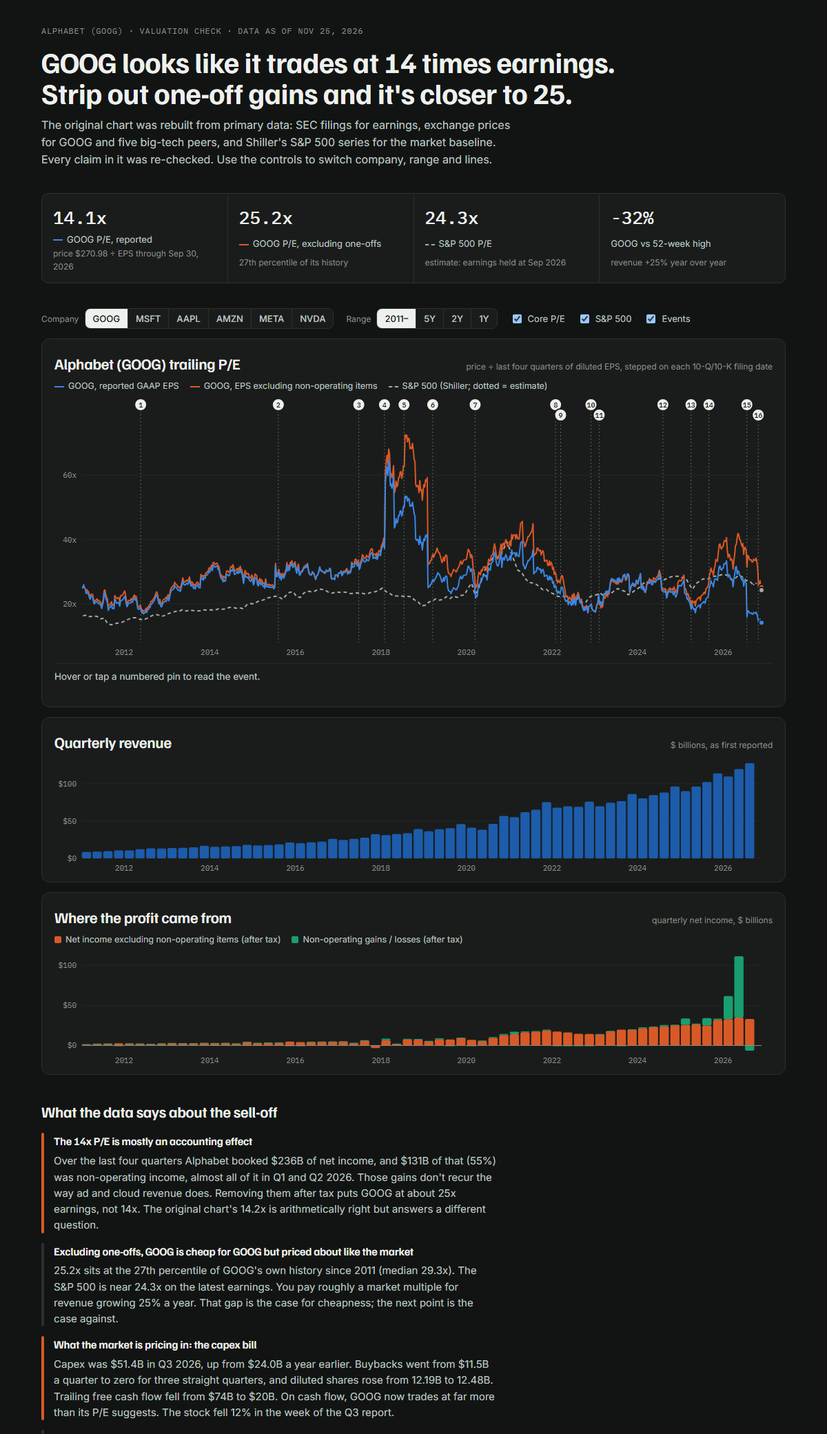
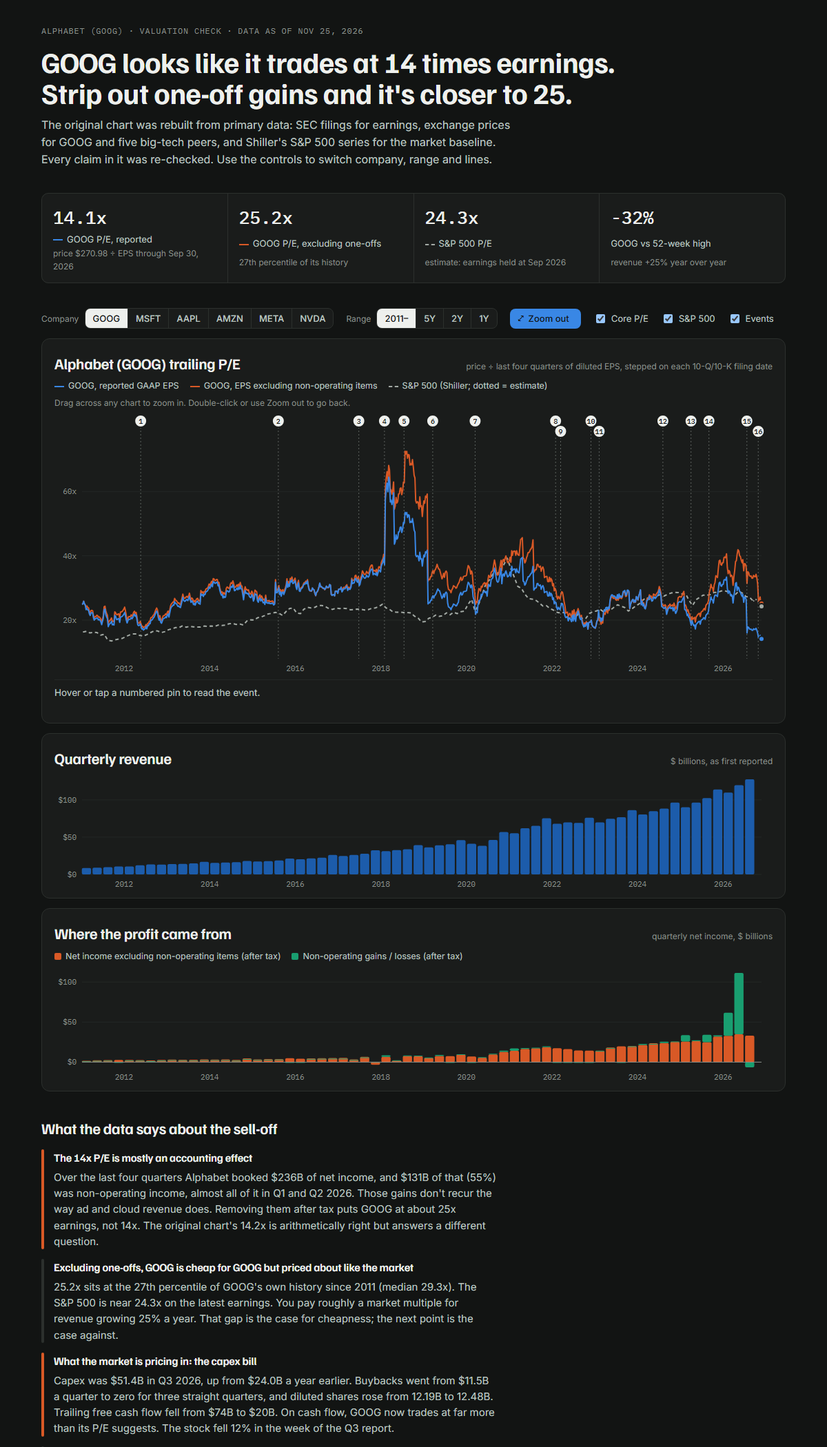
Chart hover follows the cursor anywhere on a card; add drag-to-zoom and Zoom out
The vertical line is shared across all three panels. Drag (mouse/pen) zooms
every panel to the selected span; double-click or the Zoom out button resets.

diff --git a/goog-valuation/index.html b/goog-valuation/index.html
@@ -70,7 +70,12 @@ header { display: grid; gap: 12px; }
 .panel-title .sub { font-size: 12px; color: var(--ink-3); }
 .legend { display: flex; flex-wrap: wrap; gap: 4px 16px; font-size: 12.5px; color: var(--ink-2); }
 .legend .sw { display: inline-block; width: 10px; height: 10px; border-radius: 2px; margin-right: 6px; vertical-align: -1px; }
-.chart { position: relative; width: 100%; }
+.chart { position: relative; width: 100%; user-select: none; -webkit-user-select: none; cursor: crosshair; }
+.chart .pin { cursor: pointer; }
+.zoom-out { font: 500 13px var(--font-body); color: var(--bg); background: var(--s1); border: 0; border-radius: 8px; padding: 6px 11px; cursor: pointer; display: inline-flex; gap: 6px; align-items: center; }
+.zoom-out .zl { font: 400 12px var(--font-data); opacity: 0.85; }
+.zoom-out:focus-visible { outline: 2px solid var(--ink); outline-offset: 2px; }
+.hint { font-size: 12px; color: var(--ink-3); }
 .chart svg { display: block; width: 100%; overflow: visible; }
 .chart text { font-family: var(--font-data); font-size: 11px; fill: var(--ink-3); }
 .tip { position: absolute; pointer-events: none; background: var(--surface); border: 1px solid var(--rule); border-radius: 8px;
@@ -141,6 +146,7 @@ section { display: grid; grid-template-columns: minmax(0, 1fr); gap: 14px; min-w
         <div class="seg" id="tickers" role="group" aria-label="Company"></div></div>
       <div><span class="ctl-label">Range</span>
         <div class="seg" id="ranges" role="group" aria-label="Time range"></div></div>
+      <button type="button" class="zoom-out" id="zoom-out" hidden><span aria-hidden="true">⤢</span> Zoom out <span class="zl" id="zoom-label"></span></button>
       <label class="chk"><input type="checkbox" id="t-core" checked> Core P/E</label>
       <label class="chk"><input type="checkbox" id="t-spx" checked> S&amp;P 500</label>
       <label class="chk"><input type="checkbox" id="t-ev" checked> Events</label>
@@ -149,6 +155,7 @@ section { display: grid; grid-template-columns: minmax(0, 1fr); gap: 14px; min-w
     <div class="card">
       <div class="panel-title"><h2 id="pe-title">Trailing P/E</h2><span class="sub">price ÷ last four quarters of diluted EPS, stepped on each 10-Q/10-K filing date</span></div>
       <div class="legend" id="pe-legend"></div>
+      <div class="hint">Drag across any chart to zoom in. Double-click or use Zoom out to go back.</div>
       <div class="chart" id="pe-chart"></div>
       <div class="event-detail" id="event-detail">Hover or tap a numbered pin to read the event.</div>
     </div>
@@ -199,7 +206,7 @@ section { display: grid; grid-template-columns: minmax(0, 1fr); gap: 14px; min-w
 const DATA = JSON.parse(document.getElementById("data").textContent);
 const T = DATA.tickers, SPX = DATA.spx, EVENTS = DATA.events;
 const NAMES = { GOOG: "Alphabet", MSFT: "Microsoft", AAPL: "Apple", AMZN: "Amazon", META: "Meta", NVDA: "Nvidia" };
-const state = { t: "GOOG", range: "all", core: true, spx: true, ev: true, pinned: null };
+const state = { t: "GOOG", range: "all", core: true, spx: true, ev: true, pinned: null, zoom: null };
 const $ = (id) => document.getElementById(id);
 const NS = "http://www.w3.org/2000/svg";
 const el = (tag, attrs = {}, parent) => { const e = document.createElementNS(NS, tag); for (const k in attrs) e.setAttribute(k, attrs[k]); if (parent) parent.appendChild(e); return e; };
@@ -229,8 +236,46 @@ function figs() {
 
 /* ---------- shared x scale ---------- */
 let X = null;
+/* shared hover: the cursor anywhere on a chart card (title, legend, axes, pins) moves one
+   vertical line through all three panels; the tooltip shows in the panel being hovered */
+const PANELS = {};
+function hoverAt(clientX, clientY, srcId) {
+  const src = PANELS[srcId]; if (!src) return;
+  const r = src.svg.getBoundingClientRect(); if (!r.width) return;
+  let d = src.x.inv((clientX - r.left) * (src.W / r.width));
+  if (d < src.x.a) d = src.x.a; if (d > src.x.b) d = src.x.b;
+  if (PANELS["pe-chart"]) d = PANELS["pe-chart"].snap(d);
+  for (const id in PANELS) { const p = PANELS[id]; const hx = p.x(d);
+    p.hair.setAttribute("x1", hx); p.hair.setAttribute("x2", hx); p.hair.setAttribute("visibility", "visible");
+    if (id === srcId) p.tip(d, hx, clientY); else { hideTip(p.box); p.end && p.end(); } }
+}
+function hoverEnd() { for (const id in PANELS) { const p = PANELS[id]; p.hair.setAttribute("visibility", "hidden"); hideTip(p.box); p.end && p.end(); } }
+/* drag-to-zoom: press and drag across any chart (mouse or pen) to zoom all three panels to that span */
+let drag = null;
+function dateAt(id, clientX) { const p = PANELS[id]; const r = p.svg.getBoundingClientRect();
+  let d = p.x.inv((clientX - r.left) * (p.W / r.width)); if (d < p.x.a) d = p.x.a; if (d > p.x.b) d = p.x.b; return d; }
+function showSel(a, b) { for (const id in PANELS) { const p = PANELS[id]; const x1 = p.x(a < b ? a : b), x2 = p.x(a < b ? b : a);
+  p.sel.setAttribute("x", x1); p.sel.setAttribute("width", Math.max(0, x2 - x1)); p.sel.setAttribute("visibility", "visible"); } }
+function hideSel() { for (const id in PANELS) PANELS[id].sel.setAttribute("visibility", "hidden"); }
+["pe-chart", "rev-chart", "ni-chart"].forEach(id => { const card = document.getElementById(id).closest(".card");
+  card.addEventListener("pointerdown", (e) => {
+    if (e.pointerType === "touch" || e.button !== 0 || e.target.closest("button, .pin, a, input")) { hoverAt(e.clientX, e.clientY, id); return; }
+    if (!e.target.closest(".chart")) return;
+    e.preventDefault(); drag = { id, x0: e.clientX, a: dateAt(id, e.clientX), moved: false }; card.setPointerCapture(e.pointerId); });
+  card.addEventListener("pointermove", (e) => {
+    if (drag && drag.id === id) { if (Math.abs(e.clientX - drag.x0) > 5) drag.moved = true;
+      if (drag.moved) { hoverEnd(); showSel(drag.a, dateAt(id, e.clientX)); return; } }
+    hoverAt(e.clientX, e.clientY, id); });
+  card.addEventListener("pointerup", (e) => { if (!drag || drag.id !== id) return; const d = drag; drag = null; hideSel();
+    if (!d.moved) return; let a = d.a, b = dateAt(id, e.clientX); if (a > b) [a, b] = [b, a];
+    if (b - a < 21 * 864e5) return; // ignore spans under three weeks
+    state.zoom = [a, b]; render(); hoverAt(e.clientX, e.clientY, id); });
+  card.addEventListener("pointercancel", () => { drag = null; hideSel(); });
+  card.addEventListener("pointerleave", () => { if (!drag) hoverEnd(); });
+  card.addEventListener("dblclick", () => { if (state.zoom) { state.zoom = null; render(); } }); });
 function domain() {
   const w = T[state.t].weekly; const end = D(w[w.length - 1][0]);
+  if (state.zoom) return [new Date(Math.max(+state.zoom[0], +D(w[0][0]))), new Date(Math.min(+state.zoom[1], +end))];
   const yrs = { all: null, "5y": 5, "2y": 2, "1y": 1 }[state.range];
   let start = yrs ? new Date(Date.UTC(end.getUTCFullYear() - yrs, end.getUTCMonth(), end.getUTCDate())) : D(w[0][0]);
   if (start < D(w[0][0])) start = D(w[0][0]);
@@ -296,20 +341,20 @@ function pePanel() {
       g.addEventListener("pointerenter", show); g.addEventListener("focus", show); g.addEventListener("click", () => { state.pinned = e.n; show(); pePanel(); });
     });
   }
-  // crosshair
-  const hair = el("line", { y1: m.t, y2: H - m.b, stroke: css("--ink-3"), "stroke-width": 1, visibility: "hidden" }, svg);
-  const hit = el("rect", { x: m.l, y: m.t + 0, width: W - m.l - m.r, height: H - m.t - m.b, fill: "transparent" }, svg);
-  svg.insertBefore(hit, evG); // pins stay above the hit area
-  const move = (ev) => { const r = svg.getBoundingClientRect(); const px = (ev.clientX - r.left) * (W / r.width); const d = x.inv(px);
-    let best = wk[0]; for (const p of wk) if (Math.abs(p.d - d) < Math.abs(best.d - d)) best = p;
-    let sb = sp[0]; for (const p of sp) if (Math.abs(p.d - best.d) < Math.abs(sb.d - best.d)) sb = p;
-    const hx = x(best.d); hair.setAttribute("x1", hx); hair.setAttribute("x2", hx); hair.setAttribute("visibility", "visible");
-    const rows = [[`${state.t} P/E`, fx(best.pe), css("--s1")]]; if (state.core) rows.push(["excl. one-offs", fx(best.core), css("--s2")]);
-    if (state.spx && sb) rows.push([sb.est ? "S&P 500 (est.)" : "S&P 500", fx(sb.v), css("--ref"), true]);
-    rows.push(["price", "$" + best.px.toFixed(2), "transparent"]);
-    tipAt(box, hx * (r.width / W), (ev.clientY - r.top), rows, "week of " + fmtD(best.d)); };
-  hit.addEventListener("pointermove", move); hit.addEventListener("pointerdown", move);
-  hit.addEventListener("pointerleave", () => { hair.setAttribute("visibility", "hidden"); hideTip(box); });
+  // crosshair: driven by the card-level hover handler (hoverAt), so it follows the cursor anywhere on the card
+  const hair = el("line", { y1: m.t, y2: H - m.b, stroke: css("--ink-2"), "stroke-width": 1, visibility: "hidden", "pointer-events": "none" });
+  svg.insertBefore(hair, evG); // pins stay above the line
+  const nearest = (d) => { let best = wk[0]; for (const p of wk) if (Math.abs(p.d - d) < Math.abs(best.d - d)) best = p; return best; };
+  const sel = el("rect", { y: m.t, height: H - m.t - m.b, fill: css("--s1"), "fill-opacity": 0.14, stroke: css("--s1"), "stroke-opacity": 0.5, visibility: "hidden", "pointer-events": "none" }, svg);
+  PANELS["pe-chart"] = { box, svg, W, x, hair, sel,
+    snap: (d) => nearest(d).d,
+    tip: (d, hx, clientY) => { const best = nearest(d);
+      let sb = sp[0]; for (const p of sp) if (Math.abs(p.d - best.d) < Math.abs(sb.d - best.d)) sb = p;
+      const rows = [[`${state.t} P/E`, fx(best.pe), css("--s1")]]; if (state.core) rows.push(["excl. one-offs", fx(best.core), css("--s2")]);
+      if (state.spx && sb) rows.push([sb.est ? "S&P 500 (est.)" : "S&P 500", fx(sb.v), css("--ref"), true]);
+      rows.push(["price", "$" + best.px.toFixed(2), "transparent"]);
+      const sr = svg.getBoundingClientRect(), br = box.getBoundingClientRect();
+      tipAt(box, hx * (sr.width / W), clientY - br.top, rows, "week of " + fmtD(best.d)); } };
   // legend + title
   $("pe-title").textContent = `${NAMES[state.t]} (${state.t}) trailing P/E`;
   const lg = $("pe-legend"); lg.replaceChildren();
@@ -331,15 +376,23 @@ function barPanel(id, getVals, stacked) {
   const svg = el("svg", { viewBox: `0 0 ${W} ${H}`, height: H, role: "img" }, box);
   axes(svg, x, y, yt, H, m, W, v => "$" + v);
   const n = Math.max(rows.length, 1); const bw = Math.max(1.5, Math.min(22, (W - m.l - m.r) / n - 2));
+  const bars = [];
   rows.forEach(r => { const cx = x(new Date(+r.d - 45 * 864e5)); if (cx < m.l - 2) return; let pos = 0, neg = 0;
-    const g = el("g", { style: "cursor:default" }, svg);
+    const g = el("g", { style: "transition: opacity .12s" }, svg);
+    bars.push({ g, cx, r, qn: `Q${Math.floor(r.d.getUTCMonth() / 3) + 1} ${r.d.getUTCFullYear()} (quarter ended ${fmtD(r.d)})` });
     r.parts.forEach(p => { if (p.v == null || p.v === 0) return; const a = p.v > 0 ? pos : neg, b = a + p.v; if (p.v > 0) pos = b; else neg = b;
       const y1 = y(Math.max(a, b)), y2 = y(Math.min(a, b)); el("rect", { x: cx - bw / 2, y: y1 + (stacked && a !== 0 ? 1 : 0), width: bw, height: Math.max(1, y2 - y1 - (stacked && a !== 0 ? 1 : 0)), rx: Math.min(2, bw / 4), fill: css(p.c) }, g); });
-    const hitR = el("rect", { x: cx - Math.max(bw, 8) / 2, y: m.t, width: Math.max(bw, 8), height: H - m.t - m.b, fill: "transparent" }, g);
-    const qn = `Q${Math.floor(r.d.getUTCMonth() / 3) + 1} ${r.d.getUTCFullYear()} (quarter ended ${fmtD(r.d)})`;
-    const show = (ev) => { const bb = svg.getBoundingClientRect(); tipAt(box, cx * (bb.width / W), (ev.clientY || bb.top + 20) - bb.top, r.parts.map(p => [p.label, p.v == null ? "–" : money(p.v), css(p.c)]), qn); };
-    hitR.addEventListener("pointermove", show); hitR.addEventListener("pointerdown", show); hitR.addEventListener("pointerleave", () => hideTip(box)); });
+  });
   if (lo < 0) el("line", { x1: m.l, x2: W - m.r, y1: y(0), y2: y(0), stroke: css("--ink-3"), "stroke-width": 1 }, svg);
+  const hair = el("line", { y1: m.t, y2: H - m.b, stroke: css("--ink-2"), "stroke-width": 1, visibility: "hidden", "pointer-events": "none" }, svg);
+  const sel = el("rect", { y: m.t, height: H - m.t - m.b, fill: css("--s1"), "fill-opacity": 0.14, stroke: css("--s1"), "stroke-opacity": 0.5, visibility: "hidden", "pointer-events": "none" }, svg);
+  PANELS[id] = { box, svg, W, x, hair, sel,
+    tip: (d, hx, clientY) => { if (!bars.length) return;
+      let b = bars[0]; for (const c of bars) if (Math.abs(c.cx - hx) < Math.abs(b.cx - hx)) b = c;
+      bars.forEach(c => c.g.style.opacity = c === b ? 1 : 0.45);
+      const sr = svg.getBoundingClientRect(), br = box.getBoundingClientRect();
+      tipAt(box, b.cx * (sr.width / W), clientY - br.top, b.r.parts.map(p => [p.label, p.v == null ? "–" : money(p.v), css(p.c)]), b.qn); },
+    end: () => bars.forEach(c => c.g.style.opacity = 1) };
 }
 const taxRate = (d) => d < D("2018-01-01") ? 0.35 : 0.21;
 function revPanel() { barPanel("rev-chart", r => [{ v: r.rev, c: "--bar", label: "revenue" }]); }
@@ -380,8 +433,11 @@ function method() { const ul = $("method"); ul.replaceChildren(); DATA.method.fo
 /* ---------- controls ---------- */
 function controls() {
   const tk = $("tickers"); tk.replaceChildren(); Object.keys(T).forEach(t => { const b = h("button", null, t); b.setAttribute("aria-pressed", t === state.t); b.onclick = () => { state.t = t; render(); }; tk.append(b); });
-  const rg = $("ranges"); rg.replaceChildren(); [["all", "2011–"], ["5y", "5Y"], ["2y", "2Y"], ["1y", "1Y"]].forEach(([k, lab]) => { const b = h("button", null, lab); b.setAttribute("aria-pressed", k === state.range); b.onclick = () => { state.range = k; render(); }; rg.append(b); });
+  const rg = $("ranges"); rg.replaceChildren(); [["all", "2011–"], ["5y", "5Y"], ["2y", "2Y"], ["1y", "1Y"]].forEach(([k, lab]) => { const b = h("button", null, lab); b.setAttribute("aria-pressed", k === state.range); b.setAttribute("aria-pressed", !state.zoom && k === state.range); b.onclick = () => { state.range = k; state.zoom = null; render(); }; rg.append(b); });
+  const zb = $("zoom-out"); zb.hidden = !state.zoom;
+  if (state.zoom) { const [a, b] = domain(); $("zoom-label").textContent = `${fmtD(a)} – ${fmtD(b)}`; }
 }
+$("zoom-out").addEventListener("click", () => { state.zoom = null; render(); });
 ["core", "spx", "ev"].forEach(k => { $("t-" + k).addEventListener("change", e => { state[k] = e.target.checked; render(); }); });
 $("t-ev").closest("label").title = "Event pins are shown for GOOG";
 

diff --git a/goog-valuation/scripts/template.html b/goog-valuation/scripts/template.html
@@ -64,7 +64,12 @@ header { display: grid; gap: 12px; }
 .panel-title .sub { font-size: 12px; color: var(--ink-3); }
 .legend { display: flex; flex-wrap: wrap; gap: 4px 16px; font-size: 12.5px; color: var(--ink-2); }
 .legend .sw { display: inline-block; width: 10px; height: 10px; border-radius: 2px; margin-right: 6px; vertical-align: -1px; }
-.chart { position: relative; width: 100%; }
+.chart { position: relative; width: 100%; user-select: none; -webkit-user-select: none; cursor: crosshair; }
+.chart .pin { cursor: pointer; }
+.zoom-out { font: 500 13px var(--font-body); color: var(--bg); background: var(--s1); border: 0; border-radius: 8px; padding: 6px 11px; cursor: pointer; display: inline-flex; gap: 6px; align-items: center; }
+.zoom-out .zl { font: 400 12px var(--font-data); opacity: 0.85; }
+.zoom-out:focus-visible { outline: 2px solid var(--ink); outline-offset: 2px; }
+.hint { font-size: 12px; color: var(--ink-3); }
 .chart svg { display: block; width: 100%; overflow: visible; }
 .chart text { font-family: var(--font-data); font-size: 11px; fill: var(--ink-3); }
 .tip { position: absolute; pointer-events: none; background: var(--surface); border: 1px solid var(--rule); border-radius: 8px;
@@ -133,6 +138,7 @@ section { display: grid; grid-template-columns: minmax(0, 1fr); gap: 14px; min-w
         <div class="seg" id="tickers" role="group" aria-label="Company"></div></div>
       <div><span class="ctl-label">Range</span>
         <div class="seg" id="ranges" role="group" aria-label="Time range"></div></div>
+      <button type="button" class="zoom-out" id="zoom-out" hidden><span aria-hidden="true">⤢</span> Zoom out <span class="zl" id="zoom-label"></span></button>
       <label class="chk"><input type="checkbox" id="t-core" checked> Core P/E</label>
       <label class="chk"><input type="checkbox" id="t-spx" checked> S&amp;P 500</label>
       <label class="chk"><input type="checkbox" id="t-ev" checked> Events</label>
@@ -141,6 +147,7 @@ section { display: grid; grid-template-columns: minmax(0, 1fr); gap: 14px; min-w
     <div class="card">
       <div class="panel-title"><h2 id="pe-title">Trailing P/E</h2><span class="sub">price ÷ last four quarters of diluted EPS, stepped on each 10-Q/10-K filing date</span></div>
       <div class="legend" id="pe-legend"></div>
+      <div class="hint">Drag across any chart to zoom in. Double-click or use Zoom out to go back.</div>
       <div class="chart" id="pe-chart"></div>
       <div class="event-detail" id="event-detail">Hover or tap a numbered pin to read the event.</div>
     </div>
@@ -191,7 +198,7 @@ section { display: grid; grid-template-columns: minmax(0, 1fr); gap: 14px; min-w
 const DATA = JSON.parse(document.getElementById("data").textContent);
 const T = DATA.tickers, SPX = DATA.spx, EVENTS = DATA.events;
 const NAMES = { GOOG: "Alphabet", MSFT: "Microsoft", AAPL: "Apple", AMZN: "Amazon", META: "Meta", NVDA: "Nvidia" };
-const state = { t: "GOOG", range: "all", core: true, spx: true, ev: true, pinned: null };
+const state = { t: "GOOG", range: "all", core: true, spx: true, ev: true, pinned: null, zoom: null };
 const $ = (id) => document.getElementById(id);
 const NS = "http://www.w3.org/2000/svg";
 const el = (tag, attrs = {}, parent) => { const e = document.createElementNS(NS, tag); for (const k in attrs) e.setAttribute(k, attrs[k]); if (parent) parent.appendChild(e); return e; };
@@ -221,8 +228,46 @@ function figs() {
 
 /* ---------- shared x scale ---------- */
 let X = null;
+/* shared hover: the cursor anywhere on a chart card (title, legend, axes, pins) moves one
+   vertical line through all three panels; the tooltip shows in the panel being hovered */
+const PANELS = {};
+function hoverAt(clientX, clientY, srcId) {
+  const src = PANELS[srcId]; if (!src) return;
+  const r = src.svg.getBoundingClientRect(); if (!r.width) return;
+  let d = src.x.inv((clientX - r.left) * (src.W / r.width));
+  if (d < src.x.a) d = src.x.a; if (d > src.x.b) d = src.x.b;
+  if (PANELS["pe-chart"]) d = PANELS["pe-chart"].snap(d);
+  for (const id in PANELS) { const p = PANELS[id]; const hx = p.x(d);
+    p.hair.setAttribute("x1", hx); p.hair.setAttribute("x2", hx); p.hair.setAttribute("visibility", "visible");
+    if (id === srcId) p.tip(d, hx, clientY); else { hideTip(p.box); p.end && p.end(); } }
+}
+function hoverEnd() { for (const id in PANELS) { const p = PANELS[id]; p.hair.setAttribute("visibility", "hidden"); hideTip(p.box); p.end && p.end(); } }
+/* drag-to-zoom: press and drag across any chart (mouse or pen) to zoom all three panels to that span */
+let drag = null;
+function dateAt(id, clientX) { const p = PANELS[id]; const r = p.svg.getBoundingClientRect();
+  let d = p.x.inv((clientX - r.left) * (p.W / r.width)); if (d < p.x.a) d = p.x.a; if (d > p.x.b) d = p.x.b; return d; }
+function showSel(a, b) { for (const id in PANELS) { const p = PANELS[id]; const x1 = p.x(a < b ? a : b), x2 = p.x(a < b ? b : a);
+  p.sel.setAttribute("x", x1); p.sel.setAttribute("width", Math.max(0, x2 - x1)); p.sel.setAttribute("visibility", "visible"); } }
+function hideSel() { for (const id in PANELS) PANELS[id].sel.setAttribute("visibility", "hidden"); }
+["pe-chart", "rev-chart", "ni-chart"].forEach(id => { const card = document.getElementById(id).closest(".card");
+  card.addEventListener("pointerdown", (e) => {
+    if (e.pointerType === "touch" || e.button !== 0 || e.target.closest("button, .pin, a, input")) { hoverAt(e.clientX, e.clientY, id); return; }
+    if (!e.target.closest(".chart")) return;
+    e.preventDefault(); drag = { id, x0: e.clientX, a: dateAt(id, e.clientX), moved: false }; card.setPointerCapture(e.pointerId); });
+  card.addEventListener("pointermove", (e) => {
+    if (drag && drag.id === id) { if (Math.abs(e.clientX - drag.x0) > 5) drag.moved = true;
+      if (drag.moved) { hoverEnd(); showSel(drag.a, dateAt(id, e.clientX)); return; } }
+    hoverAt(e.clientX, e.clientY, id); });
+  card.addEventListener("pointerup", (e) => { if (!drag || drag.id !== id) return; const d = drag; drag = null; hideSel();
+    if (!d.moved) return; let a = d.a, b = dateAt(id, e.clientX); if (a > b) [a, b] = [b, a];
+    if (b - a < 21 * 864e5) return; // ignore spans under three weeks
+    state.zoom = [a, b]; render(); hoverAt(e.clientX, e.clientY, id); });
+  card.addEventListener("pointercancel", () => { drag = null; hideSel(); });
+  card.addEventListener("pointerleave", () => { if (!drag) hoverEnd(); });
+  card.addEventListener("dblclick", () => { if (state.zoom) { state.zoom = null; render(); } }); });
 function domain() {
   const w = T[state.t].weekly; const end = D(w[w.length - 1][0]);
+  if (state.zoom) return [new Date(Math.max(+state.zoom[0], +D(w[0][0]))), new Date(Math.min(+state.zoom[1], +end))];
   const yrs = { all: null, "5y": 5, "2y": 2, "1y": 1 }[state.range];
   let start = yrs ? new Date(Date.UTC(end.getUTCFullYear() - yrs, end.getUTCMonth(), end.getUTCDate())) : D(w[0][0]);
   if (start < D(w[0][0])) start = D(w[0][0]);
@@ -288,20 +333,20 @@ function pePanel() {
       g.addEventListener("pointerenter", show); g.addEventListener("focus", show); g.addEventListener("click", () => { state.pinned = e.n; show(); pePanel(); });
     });
   }
-  // crosshair
-  const hair = el("line", { y1: m.t, y2: H - m.b, stroke: css("--ink-3"), "stroke-width": 1, visibility: "hidden" }, svg);
-  const hit = el("rect", { x: m.l, y: m.t + 0, width: W - m.l - m.r, height: H - m.t - m.b, fill: "transparent" }, svg);
-  svg.insertBefore(hit, evG); // pins stay above the hit area
-  const move = (ev) => { const r = svg.getBoundingClientRect(); const px = (ev.clientX - r.left) * (W / r.width); const d = x.inv(px);
-    let best = wk[0]; for (const p of wk) if (Math.abs(p.d - d) < Math.abs(best.d - d)) best = p;
-    let sb = sp[0]; for (const p of sp) if (Math.abs(p.d - best.d) < Math.abs(sb.d - best.d)) sb = p;
-    const hx = x(best.d); hair.setAttribute("x1", hx); hair.setAttribute("x2", hx); hair.setAttribute("visibility", "visible");
-    const rows = [[`${state.t} P/E`, fx(best.pe), css("--s1")]]; if (state.core) rows.push(["excl. one-offs", fx(best.core), css("--s2")]);
-    if (state.spx && sb) rows.push([sb.est ? "S&P 500 (est.)" : "S&P 500", fx(sb.v), css("--ref"), true]);
-    rows.push(["price", "$" + best.px.toFixed(2), "transparent"]);
-    tipAt(box, hx * (r.width / W), (ev.clientY - r.top), rows, "week of " + fmtD(best.d)); };
-  hit.addEventListener("pointermove", move); hit.addEventListener("pointerdown", move);
-  hit.addEventListener("pointerleave", () => { hair.setAttribute("visibility", "hidden"); hideTip(box); });
+  // crosshair: driven by the card-level hover handler (hoverAt), so it follows the cursor anywhere on the card
+  const hair = el("line", { y1: m.t, y2: H - m.b, stroke: css("--ink-2"), "stroke-width": 1, visibility: "hidden", "pointer-events": "none" });
+  svg.insertBefore(hair, evG); // pins stay above the line
+  const nearest = (d) => { let best = wk[0]; for (const p of wk) if (Math.abs(p.d - d) < Math.abs(best.d - d)) best = p; return best; };
+  const sel = el("rect", { y: m.t, height: H - m.t - m.b, fill: css("--s1"), "fill-opacity": 0.14, stroke: css("--s1"), "stroke-opacity": 0.5, visibility: "hidden", "pointer-events": "none" }, svg);
+  PANELS["pe-chart"] = { box, svg, W, x, hair, sel,
+    snap: (d) => nearest(d).d,
+    tip: (d, hx, clientY) => { const best = nearest(d);
+      let sb = sp[0]; for (const p of sp) if (Math.abs(p.d - best.d) < Math.abs(sb.d - best.d)) sb = p;
+      const rows = [[`${state.t} P/E`, fx(best.pe), css("--s1")]]; if (state.core) rows.push(["excl. one-offs", fx(best.core), css("--s2")]);
+      if (state.spx && sb) rows.push([sb.est ? "S&P 500 (est.)" : "S&P 500", fx(sb.v), css("--ref"), true]);
+      rows.push(["price", "$" + best.px.toFixed(2), "transparent"]);
+      const sr = svg.getBoundingClientRect(), br = box.getBoundingClientRect();
+      tipAt(box, hx * (sr.width / W), clientY - br.top, rows, "week of " + fmtD(best.d)); } };
   // legend + title
   $("pe-title").textContent = `${NAMES[state.t]} (${state.t}) trailing P/E`;
   const lg = $("pe-legend"); lg.replaceChildren();
@@ -323,15 +368,23 @@ function barPanel(id, getVals, stacked) {
   const svg = el("svg", { viewBox: `0 0 ${W} ${H}`, height: H, role: "img" }, box);
   axes(svg, x, y, yt, H, m, W, v => "$" + v);
   const n = Math.max(rows.length, 1); const bw = Math.max(1.5, Math.min(22, (W - m.l - m.r) / n - 2));
+  const bars = [];
   rows.forEach(r => { const cx = x(new Date(+r.d - 45 * 864e5)); if (cx < m.l - 2) return; let pos = 0, neg = 0;
-    const g = el("g", { style: "cursor:default" }, svg);
+    const g = el("g", { style: "transition: opacity .12s" }, svg);
+    bars.push({ g, cx, r, qn: `Q${Math.floor(r.d.getUTCMonth() / 3) + 1} ${r.d.getUTCFullYear()} (quarter ended ${fmtD(r.d)})` });
     r.parts.forEach(p => { if (p.v == null || p.v === 0) return; const a = p.v > 0 ? pos : neg, b = a + p.v; if (p.v > 0) pos = b; else neg = b;
       const y1 = y(Math.max(a, b)), y2 = y(Math.min(a, b)); el("rect", { x: cx - bw / 2, y: y1 + (stacked && a !== 0 ? 1 : 0), width: bw, height: Math.max(1, y2 - y1 - (stacked && a !== 0 ? 1 : 0)), rx: Math.min(2, bw / 4), fill: css(p.c) }, g); });
-    const hitR = el("rect", { x: cx - Math.max(bw, 8) / 2, y: m.t, width: Math.max(bw, 8), height: H - m.t - m.b, fill: "transparent" }, g);
-    const qn = `Q${Math.floor(r.d.getUTCMonth() / 3) + 1} ${r.d.getUTCFullYear()} (quarter ended ${fmtD(r.d)})`;
-    const show = (ev) => { const bb = svg.getBoundingClientRect(); tipAt(box, cx * (bb.width / W), (ev.clientY || bb.top + 20) - bb.top, r.parts.map(p => [p.label, p.v == null ? "–" : money(p.v), css(p.c)]), qn); };
-    hitR.addEventListener("pointermove", show); hitR.addEventListener("pointerdown", show); hitR.addEventListener("pointerleave", () => hideTip(box)); });
+  });
   if (lo < 0) el("line", { x1: m.l, x2: W - m.r, y1: y(0), y2: y(0), stroke: css("--ink-3"), "stroke-width": 1 }, svg);
+  const hair = el("line", { y1: m.t, y2: H - m.b, stroke: css("--ink-2"), "stroke-width": 1, visibility: "hidden", "pointer-events": "none" }, svg);
+  const sel = el("rect", { y: m.t, height: H - m.t - m.b, fill: css("--s1"), "fill-opacity": 0.14, stroke: css("--s1"), "stroke-opacity": 0.5, visibility: "hidden", "pointer-events": "none" }, svg);
+  PANELS[id] = { box, svg, W, x, hair, sel,
+    tip: (d, hx, clientY) => { if (!bars.length) return;
+      let b = bars[0]; for (const c of bars) if (Math.abs(c.cx - hx) < Math.abs(b.cx - hx)) b = c;
+      bars.forEach(c => c.g.style.opacity = c === b ? 1 : 0.45);
+      const sr = svg.getBoundingClientRect(), br = box.getBoundingClientRect();
+      tipAt(box, b.cx * (sr.width / W), clientY - br.top, b.r.parts.map(p => [p.label, p.v == null ? "–" : money(p.v), css(p.c)]), b.qn); },
+    end: () => bars.forEach(c => c.g.style.opacity = 1) };
 }
 const taxRate = (d) => d < D("2018-01-01") ? 0.35 : 0.21;
 function revPanel() { barPanel("rev-chart", r => [{ v: r.rev, c: "--bar", label: "revenue" }]); }
@@ -372,8 +425,11 @@ function method() { const ul = $("method"); ul.replaceChildren(); DATA.method.fo
 /* ---------- controls ---------- */
 function controls() {
   const tk = $("tickers"); tk.replaceChildren(); Object.keys(T).forEach(t => { const b = h("button", null, t); b.setAttribute("aria-pressed", t === state.t); b.onclick = () => { state.t = t; render(); }; tk.append(b); });
-  const rg = $("ranges"); rg.replaceChildren(); [["all", "2011–"], ["5y", "5Y"], ["2y", "2Y"], ["1y", "1Y"]].forEach(([k, lab]) => { const b = h("button", null, lab); b.setAttribute("aria-pressed", k === state.range); b.onclick = () => { state.range = k; render(); }; rg.append(b); });
+  const rg = $("ranges"); rg.replaceChildren(); [["all", "2011–"], ["5y", "5Y"], ["2y", "2Y"], ["1y", "1Y"]].forEach(([k, lab]) => { const b = h("button", null, lab); b.setAttribute("aria-pressed", k === state.range); b.setAttribute("aria-pressed", !state.zoom && k === state.range); b.onclick = () => { state.range = k; state.zoom = null; render(); }; rg.append(b); });
+  const zb = $("zoom-out"); zb.hidden = !state.zoom;
+  if (state.zoom) { const [a, b] = domain(); $("zoom-label").textContent = `${fmtD(a)} – ${fmtD(b)}`; }
 }
+$("zoom-out").addEventListener("click", () => { state.zoom = null; render(); });
 ["core", "spx", "ev"].forEach(k => { $("t-" + k).addEventListener("change", e => { state[k] = e.target.checked; render(); }); });
 $("t-ev").closest("label").title = "Event pins are shown for GOOG";
 
